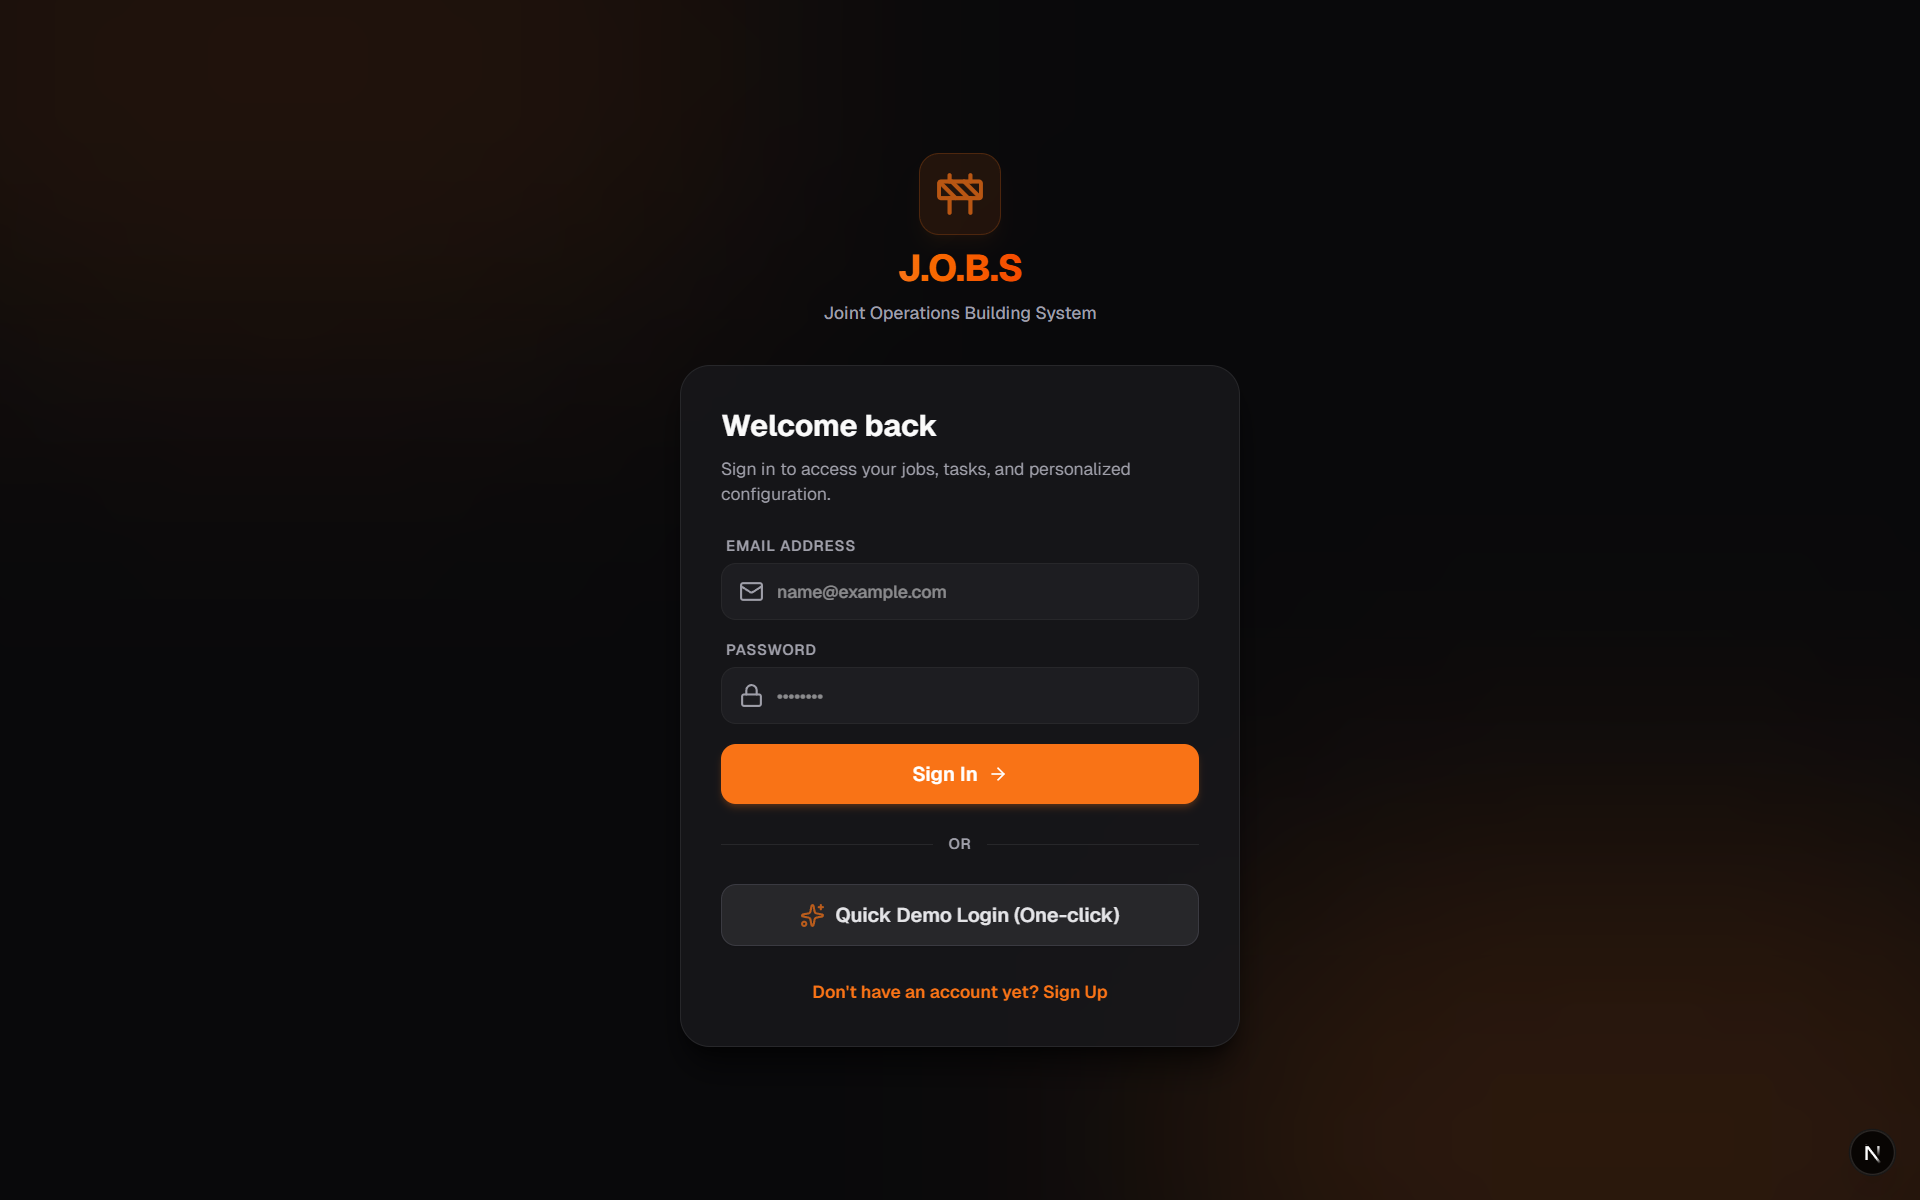
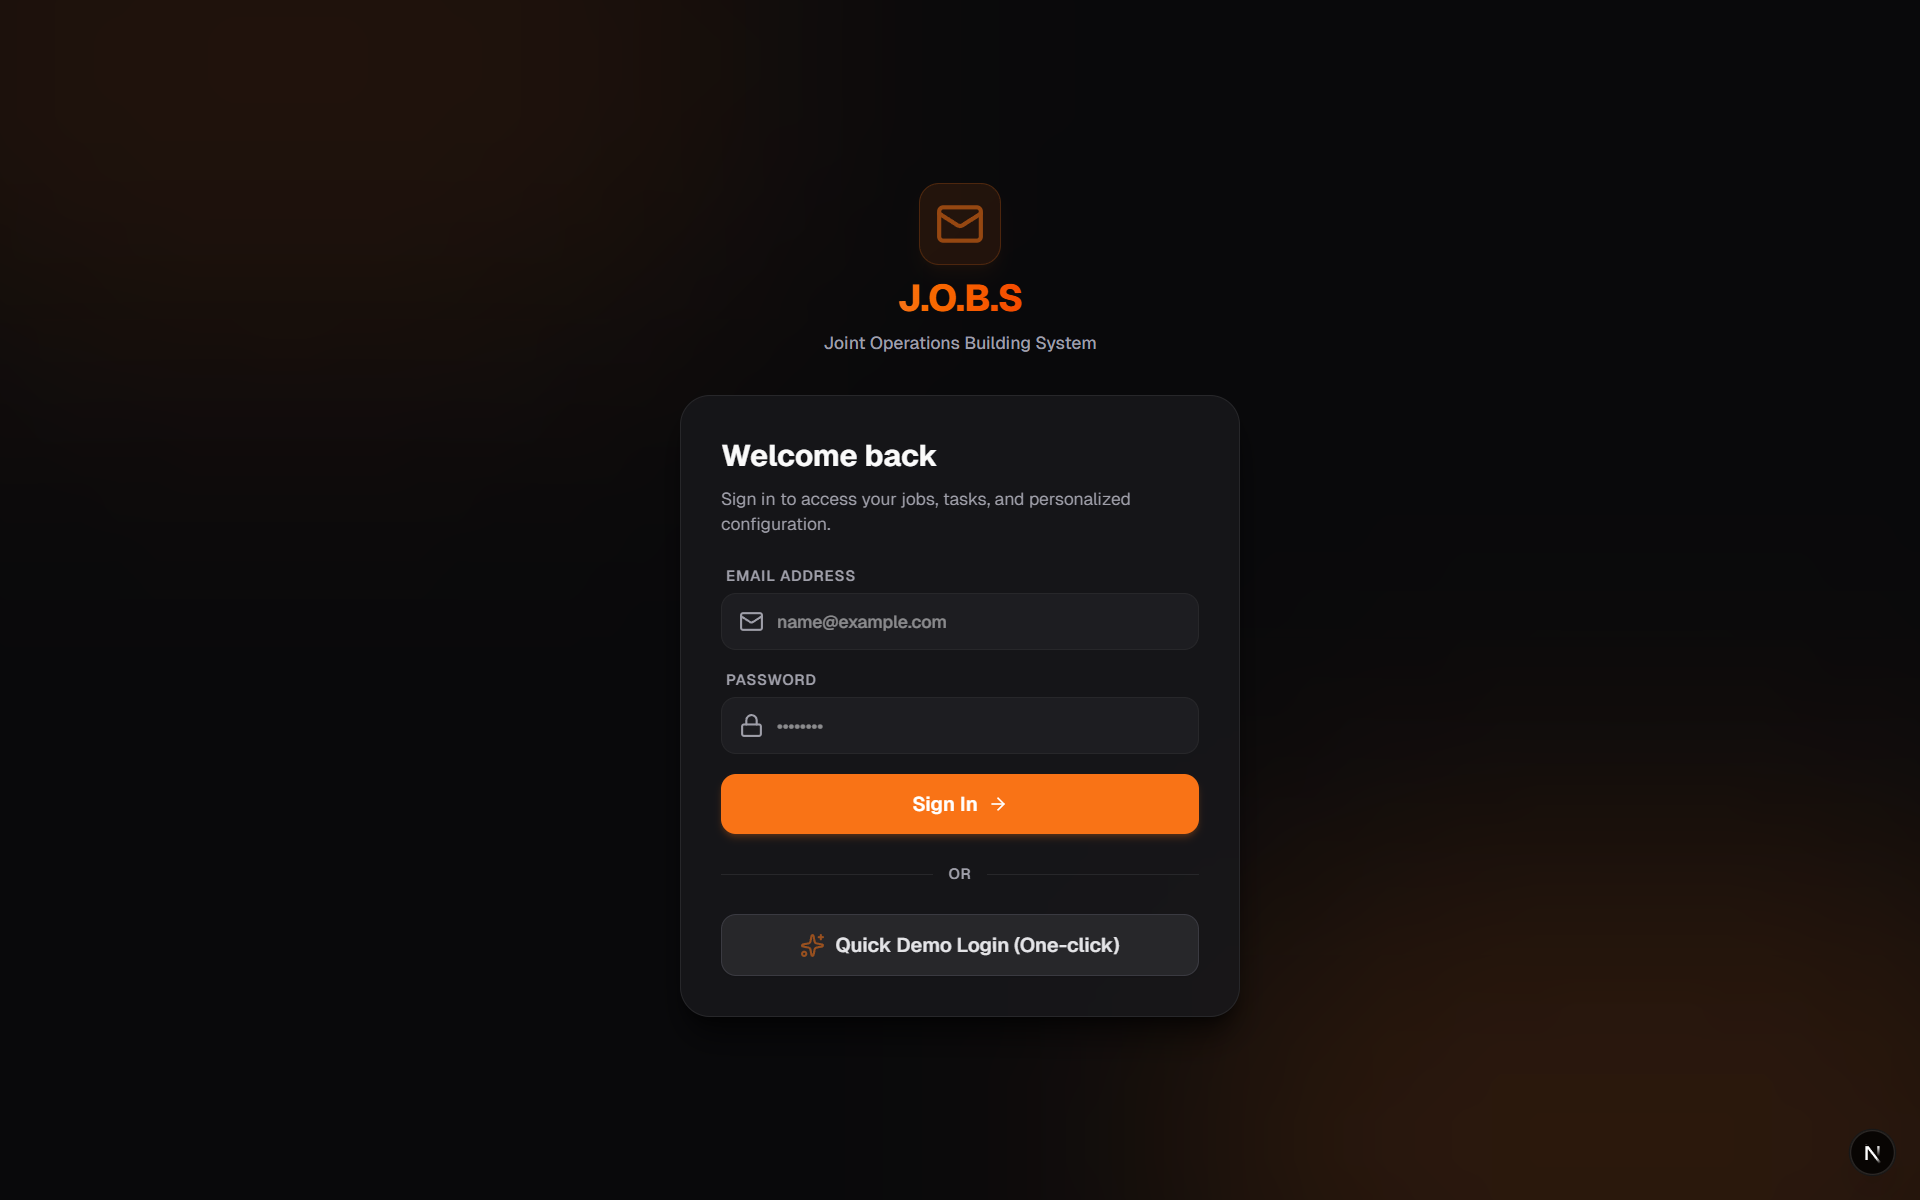
updated case studies, added cv

Changed region(s): [[0.375, 0.3392, 0.625, 0.7092], [0.4062, 0.74, 0.5938, 0.8325], [0.4375, 0.1233, 0.5625, 0.3083]]

diff --git a/src/content/work/JobsTracker.md b/src/content/work/JobsTracker.md
@@ -1,37 +1,39 @@
 ---
 title: J.O.B.S. Tracker
 description: A web app for building maintenancece, turned Google Sheet.
-img: 
+img: /images/work/jobstracker/jobstracker-logo.png
 tags:
   - React
   - NextJS
   - PrismaORM
   - Google Sheets
   - Adaptablilty
-url: 
-logo: 
+url:
+logo: true
+date: 2026-06-04
 ---
 
 ---
 
 ## Background
 
-This was an ever changing project to manage maintenance tasks for a charity building. Initially, a  React web app was prototyped and tested, but after some internal process changes, the charity opted to use a Google Sheet database to manage their maintenance tracking.
-
+This was an ever changing project to manage maintenance tasks for a charity building. Initially, a React web app was prototyped and tested, but after some internal process changes, the charity opted to use a Google Sheet database to manage their maintenance tracking.
 
 ---
 
 ## Onboarding & Early Ideas
 
-The brief consisted of a few key points: 
- - 'Our current system is paper cards'
- - 'Lots of jobs are being missed'
- - 'We need a foolproof system to help us keep up with it'.
+The brief consisted of a few key points:
+
+- 'Our current system is paper cards'
+- 'Lots of jobs are being missed'
+- 'We need a foolproof system to help us keep up with it'.
 
 So I suggested a web app. It would have:
+
 - Basic email and password authentication [Better auth](https://better-auth.com)
 - A Prisma database behind it to handle both one off tasks and the recurring tasks
-- Different user accounts for admin and users, with dynamic rendering for each 
+- Different user accounts for admin and users, with dynamic rendering for each
 
 That way, tasks can't fall through the cracks as all due tasks appear in the dashboard of the admin, and they can assign them to the users to do, with information on how to complete the task allowing with the job.
 

diff --git a/public/cv/README.md b/public/cv/README.md
@@ -1,0 +1,5 @@
+# CV Folder
+
+Place your CV PDF here and name it `daniel-ward-cv.pdf`.
+
+It will be served at `/cv/daniel-ward-cv.pdf` and the download button on the CV page will link to it automatically.
